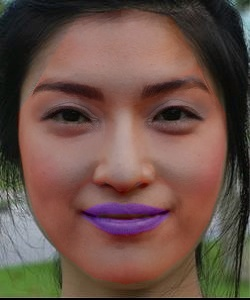
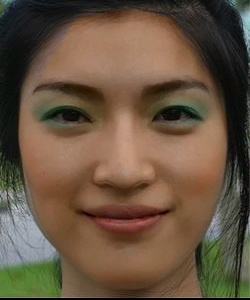
Lip Makeup

diff --git a/makeup_transfer.py b/makeup_transfer.py
@@ -1,5 +1,6 @@
 import cv2
 import sys
+from math import e, sqrt, pi
 import numpy as np
 import matplotlib.pyplot as plt
 import stasm
@@ -24,10 +25,26 @@ def shading_transfer(Is, Es, cmat, Rs, size):
         for x in range(size[1]-1):
             del_Rs[y][x] = ( del_Rs[y+1][x] + del_Rs[y-1][x] + del_Rs[y][x+1] + del_Rs[y][x-1] )/4
 
-def lip_makeup(Is, Es, beta, Rs, size):
+def gaussian(x, s, m):
+    return 1/(sqrt(2*pi)*s) * e**(-0.5*(float(x-m)/s)**2)
+            
+def lip_makeup(M, I_L, E, E_L, cmat, size):
     
-    del_Rs = Is.copy()
-    
+    for y in range(size[0]):
+        for x in range(size[1]):
+            if(cmat[y][x]==2):
+                qx = x
+                qy = y
+                maxfun = 0
+                for j in range(size[0]):
+                    for i in range(size[1]):
+                        if(i!=x and j!=y and cmat[j][i]==2):
+                            fun = gaussian( sqrt((i-x)**2 + (j-y)**2), 1, 0) * gaussian( abs(E_L[j][i] - I_L[x][y]), 1, 0)
+                            if(fun > maxfun):
+                                maxfun = fun
+                                qx = i
+                                qy = j
+                M[y][x] = E[qx][qy]
    
 
 def display(img, name='', mode='bgr'):
@@ -239,15 +256,36 @@ def main():
     			Rd[y][x] = Id[y][x]
         
     #Highlight and shading transfer
-    # Rs = Is.copy()
+    print("Highlight and shading transfer")
+    Rs = Is.copy()
     # shading_transfer(Is, Es, cmat, Rs, size)
-
+    
     result_LAB = img_LAB.copy()
     result_LAB[..., 0] = Rs + Rd
     result_LAB[..., 1] = Rc_A
     result_LAB[..., 2] = Rc_B
+    result = cv2.cvtColor(result_LAB, cv2.COLOR_LAB2BGR)
+    
+    #Lip makeup
+    print("Lip makeup")
+    M = result.copy()
+    """
+    lip_makeup(M, lightness_layer, imgMorph, lightness_layer2, cmat, size)
+    M_LAB = cv2.cvtColor(M, cv2.COLOR_BGR2LAB)
+    M_L = M_LAB[..., 0]
+    M_A = M_LAB[..., 1]
+    M_B = M_LAB[..., 2]
+                
+    for y in range(size[0]):
+        for x in range(size[1]):
+            if(cmat[y][x]==2):
+                result_LAB[y][x][0] = M_L[y][x]
+                result_LAB[y][x][1] = M_A[y][x]
+                result_LAB[y][x][2] = M_B[y][x]
     
     result = cv2.cvtColor(result_LAB, cv2.COLOR_LAB2BGR)
+    """
+    
     cv2.imwrite('morphed.jpg', imgMorph)
     cv2.imwrite('result.jpg', result)
     cv2.imwrite('base_points.jpg', img_points)
